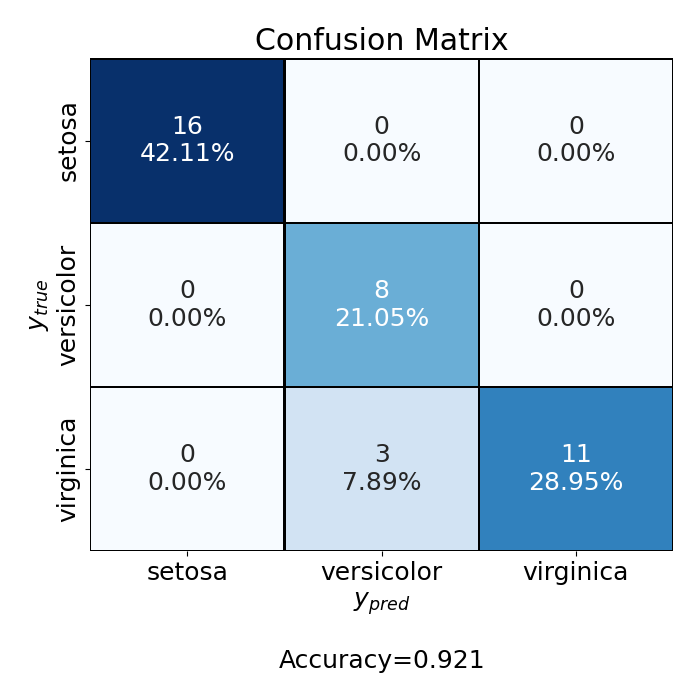
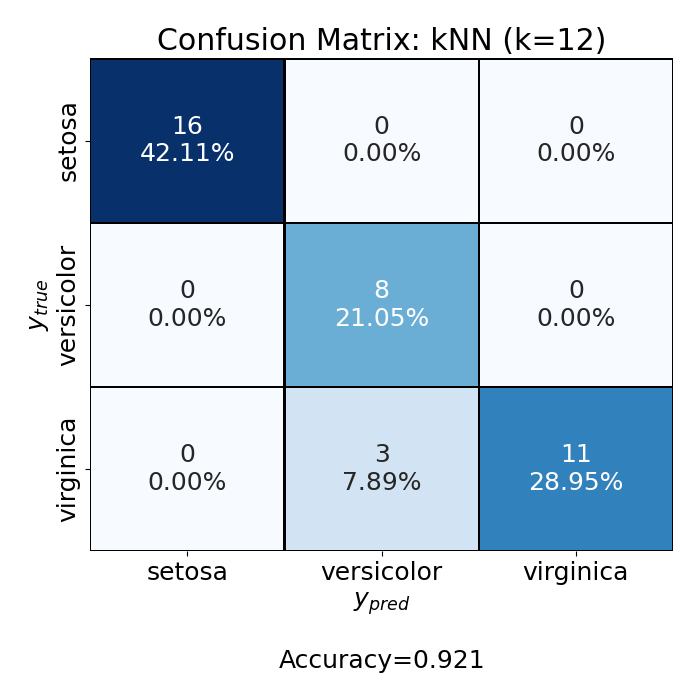
Update

Changed region(s): [[0.21, 0.03, 0.87, 0.09]]

diff --git a/machlearn/kNN/_kNN.py b/machlearn/kNN/_kNN.py
@@ -70,14 +70,11 @@ def _kNN_demo_Social_Network_Ads():
     y_pred_score = classifier_grid.predict_proba(X_test)
 
     from ..model_evaluation import plot_confusion_matrix, plot_ROC_and_PR_curves, visualize_classifier_decision_boundary_with_two_features
-    plot_confusion_matrix(y_true=y_test, y_pred=y_pred, y_classes=y_classes)
-    plot_ROC_and_PR_curves(fitted_model=classifier_grid, X=X_test,
-                           y_true=y_test, y_pred_score=y_pred_score[:, 1], y_pos_label=1, model_name=f"kNN k={k}")
+    plot_confusion_matrix(y_true=y_test, y_pred=y_pred, y_classes=y_classes, model_name=f"kNN (k={k})")
+    plot_ROC_and_PR_curves(fitted_model=classifier_grid, X=X_test, y_true=y_test, y_pred_score=y_pred_score[:, 1], y_pos_label=1, model_name=f"kNN (k={k})")
 
-    visualize_classifier_decision_boundary_with_two_features(
-        classifier_grid, X_train, y_train, y_classes, title=f"k-Nearest Neighbors (k={k}) / training set", X1_lab='Age', X2_lab='Estimated Salary')
-    visualize_classifier_decision_boundary_with_two_features(
-        classifier_grid, X_test,  y_test,  y_classes, title=f"k-Nearest Neighbors (k={k}) / testing set",  X1_lab='Age', X2_lab='Estimated Salary')
+    visualize_classifier_decision_boundary_with_two_features(classifier_grid, X_train, y_train, y_classes, title=f"k-Nearest Neighbors (k={k}) / training set", X1_lab='Age', X2_lab='Estimated Salary')
+    visualize_classifier_decision_boundary_with_two_features(classifier_grid, X_test,  y_test,  y_classes, title=f"k-Nearest Neighbors (k={k}) / testing set",  X1_lab='Age', X2_lab='Estimated Salary')
 
 
 def _kNN_demo_iris():
@@ -136,7 +133,7 @@ def _kNN_demo_iris():
     y_pred_score = classifier_grid.predict_proba(X_test)
 
     from ..model_evaluation import plot_confusion_matrix, plot_ROC_and_PR_curves, visualize_classifier_decision_boundary_with_two_features
-    plot_confusion_matrix(y_true=y_test, y_pred=y_pred, y_classes=y_classes, figsize=(7,7))
+    plot_confusion_matrix(y_true=y_test, y_pred=y_pred, y_classes=y_classes, figsize=(7,7), model_name=f"kNN (k={k})")
 
 
 def demo(dataset="Social_Network_Ads"):

diff --git a/machlearn/model_evaluation/_model_evaluation.py b/machlearn/model_evaluation/_model_evaluation.py
@@ -118,7 +118,8 @@ def Matthew_Correlation_Coefficient(TP, TN, FP, FN):
 def plot_confusion_matrix(y_true,
                           y_pred,
                           y_classes='auto',
-                          figsize=(9, 10)):
+                          figsize=(9, 10),
+                          model_name=None):
     """
 
     This function plots the confusion matrix, along with key statistics, and returns accuracy.
@@ -204,7 +205,10 @@ def plot_confusion_matrix(y_true,
 
     plt.ylabel('$y_{true}$')
     plt.xlabel('$y_{pred}$' + stats_text)
-    plt.title('Confusion Matrix')
+    if model_name:
+        plt.title(f"Confusion Matrix: {model_name}")
+    else:
+        plt.title(f"Confusion Matrix")
 
     fig.tight_layout()
     plt.show()
